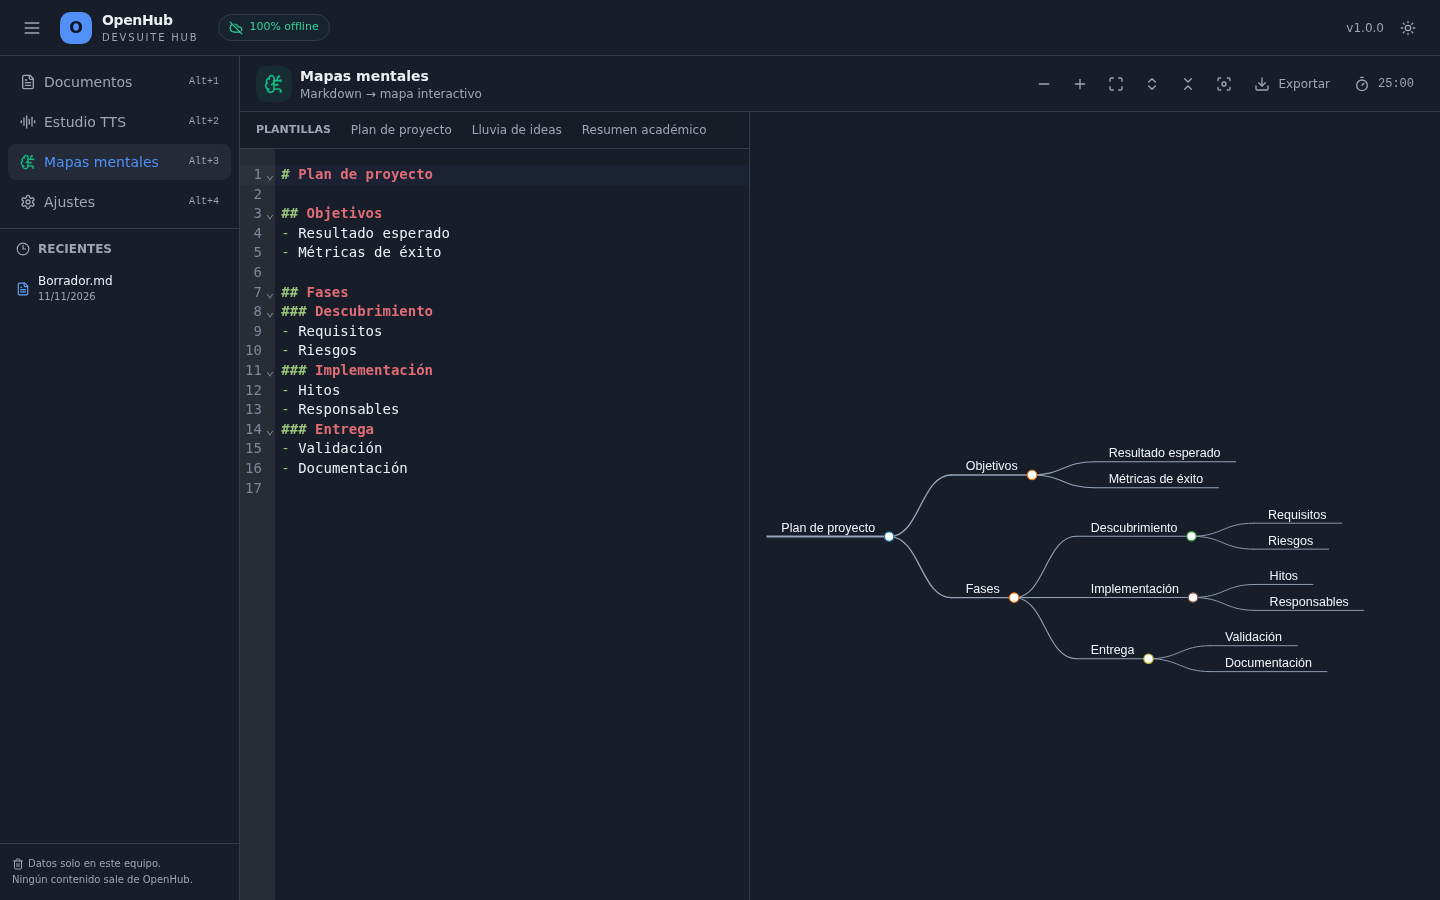
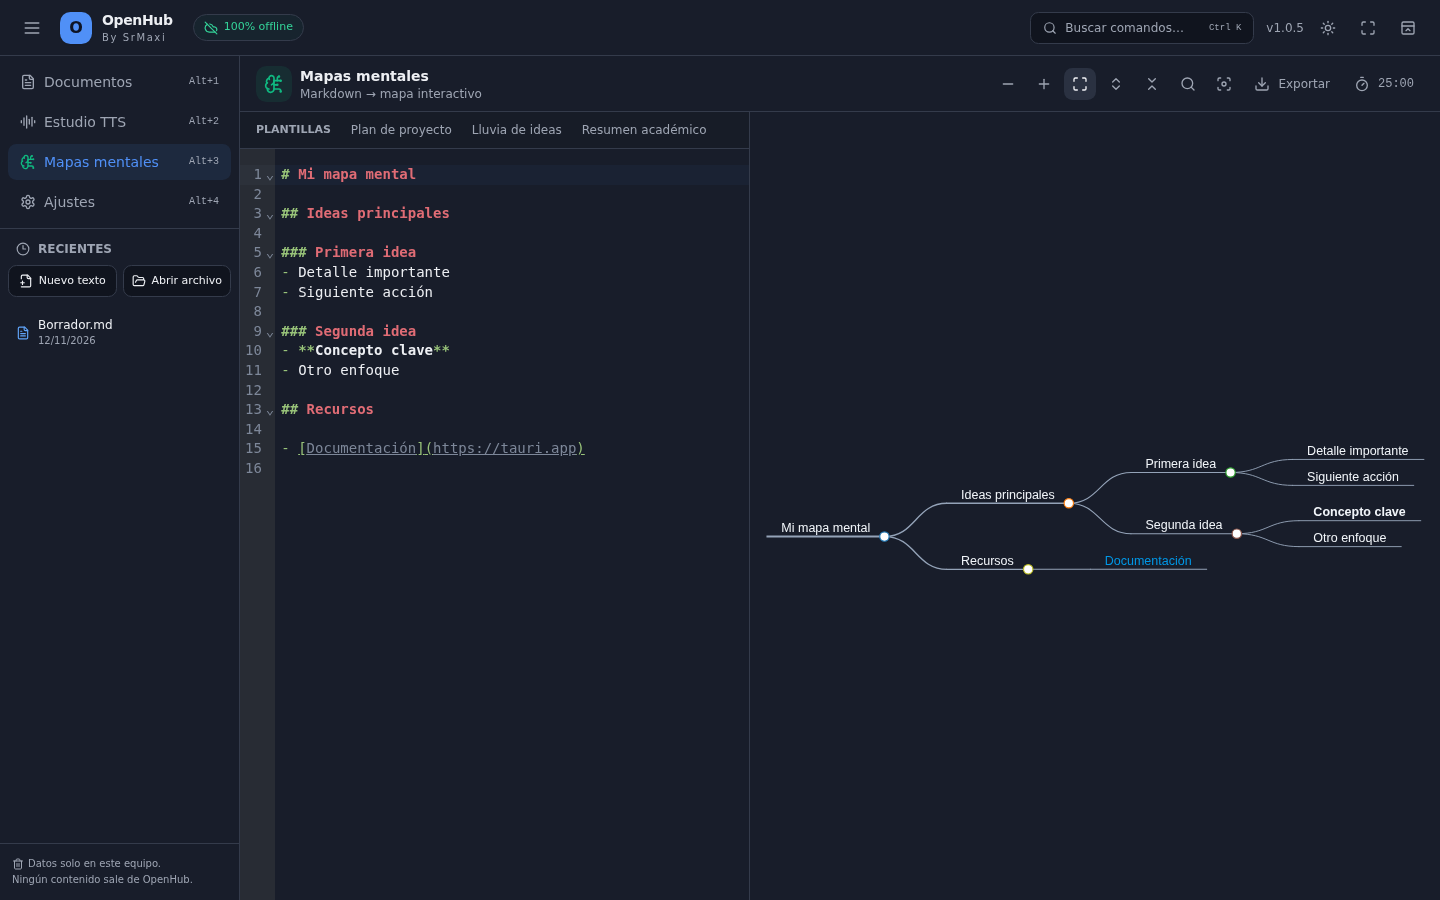
1.0.5

diff --git a/src/components/layout/Header.tsx b/src/components/layout/Header.tsx
@@ -1,13 +1,15 @@
-import { CloudOff, Menu, Moon, PanelTopClose, Search, Sun } from 'lucide-react';
+import { CloudOff, Maximize, Menu, Minimize, Moon, PanelTopClose, Search, Sun } from 'lucide-react';
 import { Button } from '@/components/ui/Button';
 import { Hint } from '@/components/ui/Tooltip';
 import { useAppStore } from '@/store/useAppStore';
 import { useAppVersion } from '@/hooks/useAppVersion';
+import { useFullscreen } from '@/hooks/useFullscreen';
 
 export function Header({ onToggleSidebar, onOpenCommands, onHide }: { onToggleSidebar: () => void; onOpenCommands: () => void; onHide: () => void }) {
   const theme = useAppStore((state) => state.theme);
   const setTheme = useAppStore((state) => state.setTheme);
   const version = useAppVersion();
+  const { fullscreen, supported, error, toggleFullscreen } = useFullscreen();
   const isDark = theme === 'dark' || (theme === 'system' && window.matchMedia('(prefers-color-scheme: dark)').matches);
 
   return (
@@ -15,7 +17,7 @@ export function Header({ onToggleSidebar, onOpenCommands, onHide }: { onToggleSi
       <Button variant="ghost" size="icon-sm" onClick={onToggleSidebar} aria-label="Alternar barra lateral"><Menu className="h-5 w-5" /></Button>
       <div className="flex items-center gap-2.5">
         <div className="grid h-8 w-8 place-items-center rounded-lg bg-primary font-black text-primary-foreground shadow-sm">O</div>
-        <div><div className="text-sm font-bold tracking-tight">OpenHub</div><div className="hidden text-[10px] font-medium uppercase tracking-[.18em] text-muted-foreground sm:block">DevSuite Hub</div></div>
+        <div><div className="text-sm font-bold tracking-tight">OpenHub</div><div className="hidden text-[10px] font-medium normal-case tracking-[.16em] text-muted-foreground sm:block">By SrMaxi</div></div>
       </div>
       <span className="ml-2 hidden items-center gap-1.5 rounded-full border bg-emerald-500/5 px-2.5 py-1 text-[11px] font-medium text-emerald-600 dark:text-emerald-400 sm:flex"><CloudOff className="h-3.5 w-3.5" />100% offline</span>
       <button onClick={onOpenCommands} className="ml-auto flex h-8 w-56 items-center gap-2 whitespace-nowrap rounded-md border bg-background px-3 text-xs text-muted-foreground transition hover:bg-accent max-md:w-9 max-md:justify-center max-md:px-0" aria-label="Abrir paleta de comandos">
@@ -26,9 +28,15 @@ export function Header({ onToggleSidebar, onOpenCommands, onHide }: { onToggleSi
         <Hint label={isDark ? 'Usar tema claro' : 'Usar tema oscuro'}>
           <Button variant="ghost" size="icon-sm" onClick={() => setTheme(isDark ? 'light' : 'dark')} aria-label="Cambiar tema">{isDark ? <Sun className="h-4 w-4" /> : <Moon className="h-4 w-4" />}</Button>
         </Hint>
+        <Hint label={!supported ? 'Pantalla completa no disponible' : fullscreen ? 'Salir de pantalla completa · F11' : 'Pantalla completa · F11'}>
+          <Button variant={fullscreen ? 'secondary' : 'ghost'} size="icon-sm" onClick={() => void toggleFullscreen()} disabled={!supported} aria-label={fullscreen ? 'Salir de pantalla completa' : 'Poner pantalla completa'} aria-pressed={fullscreen}>
+            {fullscreen ? <Minimize className="h-4 w-4" /> : <Maximize className="h-4 w-4" />}
+          </Button>
+        </Hint>
         <Hint label="Ocultar barra superior · Ctrl+Shift+H">
           <Button variant="ghost" size="icon-sm" onClick={onHide} aria-label="Ocultar barra superior"><PanelTopClose className="h-4 w-4" /></Button>
         </Hint>
+        {error && <span className="sr-only" role="alert">{error}</span>}
       </div>
     </header>
   );

diff --git a/src/components/layout/Sidebar.tsx b/src/components/layout/Sidebar.tsx
@@ -1,4 +1,4 @@
-import { AudioLines, BrainCircuit, Clock3, FileText, Settings, Trash2, X } from 'lucide-react';
+import { AudioLines, BrainCircuit, Clock3, FilePlus2, FileText, FolderOpen, Settings, Trash2, X } from 'lucide-react';
 import { Button } from '@/components/ui/Button';
 import { Hint } from '@/components/ui/Tooltip';
 import { useAppStore } from '@/store/useAppStore';
@@ -20,6 +20,13 @@ export function Sidebar({ open, headerHidden = false }: { open: boolean; headerH
 
   const select = (id: ToolId) => setActive(id);
   const openRecent = (recent: RecentDocument) => window.dispatchEvent(new CustomEvent('openhub:recent', { detail: recent }));
+  const createText = () => {
+    const names = new Set(recents.map((recent) => recent.name.toLocaleLowerCase()));
+    let index = 1;
+    while (names.has(`texto ${index}.md`)) index += 1;
+    window.dispatchEvent(new CustomEvent('openhub:new-document', { detail: { name: `Texto ${index}.md` } }));
+  };
+  const openFile = () => window.dispatchEvent(new CustomEvent('openhub:open'));
 
   return (
     <aside className={cn('z-30 flex shrink-0 flex-col border-r bg-card transition-[width] duration-200 max-lg:absolute max-lg:bottom-0 max-lg:left-0 max-lg:shadow-xl', headerHidden ? 'max-lg:top-0' : 'max-lg:top-14', open ? 'w-60' : 'w-16 max-lg:w-0 max-lg:overflow-hidden')} aria-label="Navegación principal">
@@ -43,6 +50,10 @@ export function Sidebar({ open, headerHidden = false }: { open: boolean; headerH
       {open && (
         <div className="flex min-h-0 flex-1 flex-col border-t pt-3">
           <div className="mb-2 flex items-center gap-2 px-4 text-xs font-semibold text-muted-foreground"><Clock3 className="h-3.5 w-3.5" />RECIENTES</div>
+          <div className="grid grid-cols-2 gap-1.5 px-2 pb-3">
+            <Button variant="outline" size="sm" className="min-w-0 gap-1.5 px-2 text-[11px]" onClick={createText} aria-label="Crear texto nuevo"><FilePlus2 className="h-3.5 w-3.5" />Nuevo texto</Button>
+            <Button variant="outline" size="sm" className="min-w-0 gap-1.5 px-2 text-[11px]" onClick={openFile} aria-label="Abrir archivo desde Recientes"><FolderOpen className="h-3.5 w-3.5" />Abrir archivo</Button>
+          </div>
           <div className="min-h-0 flex-1 space-y-0.5 overflow-y-auto px-2 pb-3">
             {recents.length ? recents.map((recent) => (
               <div key={recent.id} className="group flex items-center rounded-md hover:bg-accent">
@@ -52,7 +63,7 @@ export function Sidebar({ open, headerHidden = false }: { open: boolean; headerH
                 </button>
                 <button className="mr-1 flex rounded p-1 text-muted-foreground opacity-0 transition-opacity hover:bg-background hover:text-destructive focus:opacity-100 group-focus-within:opacity-100 group-hover:opacity-100" onClick={() => removeRecent(recent.id)} aria-label={`Quitar ${recent.name} de recientes`}><X className="h-3 w-3" /></button>
               </div>
-            )) : <p className="px-3 py-5 text-center text-xs leading-5 text-muted-foreground">Los documentos que abras aparecerán aquí.</p>}
+            )) : <p className="px-3 py-5 text-center text-xs leading-5 text-muted-foreground">Crea un texto o abre un archivo para verlo aquí.</p>}
           </div>
         </div>
       )}

diff --git a/src/hooks/useFullscreen.ts b/src/hooks/useFullscreen.ts
@@ -1,0 +1,65 @@
+import { useCallback, useEffect, useState } from 'react';
+import { getCurrentWindow } from '@tauri-apps/api/window';
+import { isTauri } from '@/services/fileSystemService';
+
+export function useFullscreen() {
+  const [fullscreen, setFullscreen] = useState(false);
+  const [error, setError] = useState<string | null>(null);
+  const supported = isTauri() || (typeof document !== 'undefined' && document.fullscreenEnabled);
+
+  const refresh = useCallback(async () => {
+    try {
+      if (isTauri()) setFullscreen(await getCurrentWindow().isFullscreen());
+      else setFullscreen(Boolean(document.fullscreenElement));
+    } catch {
+      // La consulta puede fallar durante el cierre de la ventana nativa.
+    }
+  }, []);
+
+  const toggleFullscreen = useCallback(async () => {
+    setError(null);
+    try {
+      if (isTauri()) {
+        const appWindow = getCurrentWindow();
+        const next = !(await appWindow.isFullscreen());
+        await appWindow.setFullscreen(next);
+        setFullscreen(next);
+      } else if (document.fullscreenElement) {
+        await document.exitFullscreen();
+      } else if (document.documentElement.requestFullscreen) {
+        await document.documentElement.requestFullscreen();
+      } else {
+        throw new Error('Pantalla completa no disponible en este contexto.');
+      }
+    } catch (cause) {
+      setError(`No se pudo cambiar la pantalla completa: ${cause instanceof Error ? cause.message : String(cause)}`);
+    }
+  }, []);
+
+  useEffect(() => {
+    let mounted = true;
+    const sync = () => { if (mounted) void refresh(); };
+    sync();
+    document.addEventListener('fullscreenchange', sync);
+    window.addEventListener('resize', sync);
+    window.addEventListener('focus', sync);
+    return () => {
+      mounted = false;
+      document.removeEventListener('fullscreenchange', sync);
+      window.removeEventListener('resize', sync);
+      window.removeEventListener('focus', sync);
+    };
+  }, [refresh]);
+
+  useEffect(() => {
+    const onKeyDown = (event: KeyboardEvent) => {
+      if (event.key !== 'F11') return;
+      event.preventDefault();
+      void toggleFullscreen();
+    };
+    window.addEventListener('keydown', onKeyDown);
+    return () => window.removeEventListener('keydown', onKeyDown);
+  }, [toggleFullscreen]);
+
+  return { fullscreen, supported, error, toggleFullscreen };
+}

diff --git a/src/components/tools/viewer/DocumentViewer.tsx b/src/components/tools/viewer/DocumentViewer.tsx
@@ -103,13 +103,22 @@ export default function DocumentViewer() {
   useEffect(() => {
     const onOpen = () => { setActiveTool('viewer'); void openDialog(); };
     const onRecent = (event: Event) => void openRecent((event as CustomEvent<RecentDocument>).detail);
+    const onNewDocument = (event: Event) => {
+      const requestedName = (event as CustomEvent<{ name?: string }>).detail?.name?.trim();
+      setActiveTool('viewer');
+      loadDocument({ name: requestedName || 'Texto sin título.md', kind: 'markdown', text: '' });
+      setMode('split');
+      window.requestAnimationFrame(() => sectionRef.current?.querySelector<HTMLTextAreaElement>('textarea[aria-label="Editor Markdown"]')?.focus());
+    };
     window.addEventListener('openhub:open', onOpen);
     window.addEventListener('openhub:recent', onRecent);
+    window.addEventListener('openhub:new-document', onNewDocument);
     return () => {
       window.removeEventListener('openhub:open', onOpen);
       window.removeEventListener('openhub:recent', onRecent);
+      window.removeEventListener('openhub:new-document', onNewDocument);
     };
-  }, [openDialog, openRecent, setActiveTool]);
+  }, [loadDocument, openDialog, openRecent, setActiveTool, setMode]);
 
   useEffect(() => {
     if (!isTauri()) return;

diff --git a/src/hooks/useAppVersion.test.ts b/src/hooks/useAppVersion.test.ts
@@ -7,11 +7,11 @@ describe('versión de OpenHub', () => {
   });
 
   it('tolera que tauri-action presente package.json sin version', () => {
-    expect(resolvePackageVersion({})).toBe('1.0.0');
+    expect(resolvePackageVersion({})).toBe('1.0.5');
   });
 
   it('descarta valores vacíos o de otro tipo', () => {
-    expect(resolvePackageVersion({ version: '  ' })).toBe('1.0.0');
-    expect(resolvePackageVersion({ version: null })).toBe('1.0.0');
+    expect(resolvePackageVersion({ version: '  ' })).toBe('1.0.5');
+    expect(resolvePackageVersion({ version: null })).toBe('1.0.5');
   });
 });

diff --git a/src/hooks/useAppVersion.ts b/src/hooks/useAppVersion.ts
@@ -2,7 +2,7 @@ import { useEffect, useState } from 'react';
 import packageMetadata from '../../package.json';
 
 export function resolvePackageVersion(metadata: Record<string, unknown>): string {
-  return typeof metadata.version === 'string' && metadata.version.trim() ? metadata.version : '1.0.0';
+  return typeof metadata.version === 'string' && metadata.version.trim() ? metadata.version : '1.0.5';
 }
 
 const packageVersion = resolvePackageVersion(packageMetadata);

diff --git a/README.md b/README.md
@@ -1,4 +1,4 @@
-# OpenHub (DevSuite Hub)
+# OpenHub — By SrMaxi
 
 Aplicación de escritorio **Windows 10/11**, que integra un visor Markdown/PDF, un estudio de texto a voz y mapas mentales interactivos. Todo el trabajo y los recursos funcionan offline; solo buscar o descargar actualizaciones requiere internet. Construida con **Tauri v2, Rust, React 18, TypeScript, Tailwind CSS, Radix UI y Zustand**.
 
@@ -9,7 +9,7 @@ Aplicación de escritorio **Windows 10/11**, que integra un visor Markdown/PDF, 
 - **Voz:** Web Speech API / voces SAPI disponibles en WebView2; velocidad, tono, volumen, lectura de selección, párrafos, progreso, resaltado y auto-scroll.
 - **Mapas:** CodeMirror 6 + Markmap, zoom, pan, colapso, modo foco, plantillas y exportación MD/SVG/HTML/PNG/PDF mediante impresión.
 - **Pomodoro compartido:** trabajo/descanso configurables, pausa, salto, reinicio, estadísticas y alarma local diferente al terminar enfoque o descanso. Panel flotante accesible sobre Visor, TTS y Mapas.
-- **Productividad:** paleta `Ctrl+K`, barra superior ocultable con `Ctrl+Shift+H`, índice Markdown navegable, búsqueda PDF con atajos y búsqueda/centrado de temas Markmap.
+- **Productividad:** pantalla completa nativa/web con botón y `F11`, creación de textos y apertura de archivos desde Recientes, paleta `Ctrl+K`, barra superior ocultable con `Ctrl+Shift+H`, índice Markdown, búsqueda PDF y búsqueda/centrado de temas Markmap.
 - **Lectura accesible:** tamaño, interlineado y ancho configurables; pronunciación TTS personalizada sin alterar el texto ni perder su resaltado.
 - **Respaldo local:** exportación/restauración JSON versionada y validada de preferencias, pronunciaciones y recientes.
 - **Actualizaciones firmadas:** aviso al iniciar, descarga con progreso, instalación con aceptación y reinicio mediante GitHub Releases. [Configuración](docs/ACTUALIZACIONES.md).
@@ -25,7 +25,7 @@ Las siguientes imágenes son capturas directas del **build de producción ejecut
 
 Capturas individuales a 1440 × 900 px: [Inicio](docs/screenshots/01-inicio.png) · [Visor Markdown](docs/screenshots/02-visor-markdown.png) · [Estudio TTS](docs/screenshots/03-estudio-tts.png) · [Mapas mentales](docs/screenshots/04-mapas-mentales.png) · [Ajustes](docs/screenshots/05-ajustes.png) · [Modo oscuro](docs/screenshots/06-mapa-modo-oscuro.png).
 
-**Nuevas mejoras verificadas:** [Paleta de comandos](docs/screenshots/mejoras/07-paleta-comandos.png) · [Índice de lectura](docs/screenshots/mejoras/08-indice-lectura.png) · [Búsqueda PDF en página 2](docs/screenshots/mejoras/09-busqueda-pdf.png) · [Búsqueda Markmap](docs/screenshots/mejoras/10-busqueda-markmap.png) · [Pronunciación y accesibilidad](docs/screenshots/mejoras/11-pronunciacion-ajustes.png) · [Barra superior oculta](docs/screenshots/mejoras/12-barra-superior-oculta.png) · [Leer selección](docs/screenshots/mejoras/13-leer-seleccion.png) · [Actualización disponible](docs/screenshots/mejoras/14-actualizacion-disponible.png) · [Pomodoro superpuesto](docs/screenshots/mejoras/15-pomodoro-superpuesto.png).
+**Nuevas mejoras verificadas:** [Paleta de comandos](docs/screenshots/mejoras/07-paleta-comandos.png) · [Índice de lectura](docs/screenshots/mejoras/08-indice-lectura.png) · [Búsqueda PDF en página 2](docs/screenshots/mejoras/09-busqueda-pdf.png) · [Búsqueda Markmap](docs/screenshots/mejoras/10-busqueda-markmap.png) · [Pronunciación y accesibilidad](docs/screenshots/mejoras/11-pronunciacion-ajustes.png) · [Barra superior oculta](docs/screenshots/mejoras/12-barra-superior-oculta.png) · [Leer selección](docs/screenshots/mejoras/13-leer-seleccion.png) · [Actualización disponible](docs/screenshots/mejoras/14-actualizacion-disponible.png) · [Pomodoro superpuesto](docs/screenshots/mejoras/15-pomodoro-superpuesto.png) · [Acciones en Recientes](docs/screenshots/mejoras/16-recientes-acciones.png) · [Pantalla completa](docs/screenshots/mejoras/17-pantalla-completa.png).
 
 ### Cómo escuchar solo una selección
 
@@ -66,8 +66,8 @@ La verificación E2E opcional y reproducible de las nuevas funciones está docum
 Instaladores generados:
 
 ```text
-src-tauri/target/release/bundle/nsis/OpenHub_1.0.0_x64-setup.exe
-src-tauri/target/release/bundle/msi/OpenHub_1.0.0_x64_en-US.msi
+src-tauri/target/release/bundle/nsis/OpenHub_1.0.5_x64-setup.exe
+src-tauri/target/release/bundle/msi/OpenHub_1.0.5_x64_en-US.msi
 ```
 
 > Los nombres pueden variar según la arquitectura y el idioma del bundle.
@@ -79,7 +79,7 @@ src-tauri/target/release/bundle/msi/OpenHub_1.0.0_x64_en-US.msi
    ```powershell
    git init
    git add .
-   git commit -m "OpenHub 1.0.0"
+   git commit -m "OpenHub 1.0.5"
    git branch -M main
    git remote add origin https://github.com/USUARIO/REPOSITORIO.git
    git push -u origin main

diff --git a/docs/VERIFICACION.md b/docs/VERIFICACION.md
@@ -1,4 +1,4 @@
-# Informe de verificación — OpenHub 1.0.0
+# Informe de verificación — OpenHub 1.0.5
 
 **Fecha:** 11 de noviembre de 2026.
 
@@ -8,14 +8,15 @@
 |---|---|
 | `npm run typecheck` | Correcto, sin errores TypeScript. |
 | `npm test` | 6 archivos; **22/22 pruebas unitarias** superadas. |
-| `npm run build` | Build Vite de producción correcto; **2413 módulos** transformados. |
+| `npm run build` | Build Vite de producción correcto; **2414 módulos** transformados. |
 | `npm audit --omit=dev --audit-level=low` | **0 vulnerabilidades** en dependencias de producción. |
 | `node verify-improvements.mjs` | **7 comprobaciones** funcionales superadas; **`errors: []`**. |
 | `node verify-usability.mjs` | **14 comprobaciones** de usabilidad superadas; **`errors: []`**. |
 | `node verify-updater.mjs` | **8 comprobaciones** del actualizador superadas; **`errors: []`**. |
 | `node verify-pomodoro.mjs` | **6 comprobaciones** de apilamiento, clics y alarmas superadas; **`errors: []`**. |
+| `node verify-navigation.mjs` | **9 comprobaciones** de identidad, Recientes y pantalla completa superadas; **`errors: []`**. |
 
-Total de navegador: **35/35 comprobaciones** sobre el frontend de producción servido en el puerto 1420 mediante Chromium/Playwright. No se modifica la interfaz distribuida para aparentar resultados.
+Total de navegador: **44/44 comprobaciones** sobre el frontend de producción servido en el puerto 1420 mediante Chromium/Playwright. No se modifica la interfaz distribuida para aparentar resultados.
 
 ## E2E general
 
@@ -48,7 +49,13 @@ Total de navegador: **35/35 comprobaciones** sobre el frontend de producción se
 
 Para recorrer los vencimientos sin esperar 30 minutos, la prueba configura sesiones de 1,2 segundos en el almacenamiento del navegador aislado. El temporizador real termina enfoque y descanso, cambia de modo y actualiza las estadísticas. Se sustituye `AudioContext` **solo en QA** para registrar las frecuencias programadas: `[880, 660, 880]` al terminar enfoque y `[523.25, 659.25, 523.25]` al terminar descanso. Esto valida la lógica y la programación de audio; la salida audible física y las políticas concretas de WebView2 deben comprobarse en Windows.
 
-Capturas finales: `docs/screenshots/mejoras/07-…` hasta `15-…`.
+## E2E de Recientes y pantalla completa
+
+`verify-navigation.mjs` crea dos borradores con nombres únicos, comprueba que el segundo no sobrescribe el primero, recupera su contenido desde Recientes y abre un Markdown real mediante el selector de archivos. Después entra y sale de pantalla completa con el botón y con `F11`.
+
+En una segunda página aislada simula únicamente el IPC de Tauri para comprobar `isFullscreen`, `setFullscreen(true/false)` y la sincronización cuando la ventana cambia externamente. La versión web utiliza la Fullscreen API real de Chromium, no un doble.
+
+Capturas finales: `docs/screenshots/mejoras/07-…` hasta `17-…`.
 
 ## Errores corregidos en esta ronda
 
@@ -62,6 +69,8 @@ Capturas finales: `docs/screenshots/mejoras/07-…` hasta `15-…`.
 - Se endurecieron nombres reservados de Windows, progreso no finito, índice activo, Pomodoro, paleta y foco del actualizador.
 - Restaurar una copia cancela cualquier voz activa antes de reemplazar el estado.
 - La compilación dentro de `tauri-action` podía recibir un `package.json` sin `version`; `useAppVersion` ahora tolera metadatos incompletos y conserva `getVersion()` como fuente real en Windows. Se verificó `npm run build` con la propiedad eliminada temporalmente y se restauró el archivo después.
+- Recientes permite crear borradores únicos y abrir archivos sin salir de la barra lateral; el editor recupera correctamente el contenido seleccionado.
+- Pantalla completa funciona con botón y `F11`, con permisos nativos explícitos, fallback web y sincronización de estado.
 
 ## Alcance y límites
 

diff --git a/docs/INVESTIGACION-Y-MEJORAS.md b/docs/INVESTIGACION-Y-MEJORAS.md
@@ -30,6 +30,7 @@
 | Backup/restauración | JSON versionado, exportación nativa/descarga y límite de importación de 5 MB. | E2E descarga y valida JSON; pruebas de esquema, límites, recientes y reglas. |
 | Pomodoro superpuesto y alarmas | Portal a `document.body`, posición adaptada al viewport, cierre al ocultarse su herramienta y Web Audio local con melodías distintas para enfoque/descanso. | E2E pulsa los controles en Visor/TTS/Mapas, comprueba el elemento superior y recorre ambos vencimientos; AudioContext se simula solo en QA para inspeccionar las notas. |
 | Robustez de texto y datos | Rangos Unicode exactos, borradores vacíos, backups parciales no destructivos, nombres seguros para Windows y versión tolerante a metadatos incompletos en CI. | 22 pruebas unitarias, incluidos coreano, acentos descompuestos, emojis, dispositivos reservados y `package.json` sin `version`. |
+| Recientes y pantalla completa | Acciones laterales para texto/archivo, nombres únicos y `useFullscreen` con Tauri/Fullscreen API, `F11` y permisos nativos mínimos. Identidad `By SrMaxi` y versión base 1.0.5 sincronizadas. | 9 comprobaciones E2E de identidad, creación, recuperación, apertura, botón, atajo e IPC nativo. |
 
 ## Decisiones deliberadas
 
@@ -67,8 +68,9 @@ node verify-improvements.mjs
 node verify-usability.mjs
 node verify-updater.mjs
 node verify-pomodoro.mjs
+node verify-navigation.mjs
 ```
 
-El primer script crea un PDF real de dos páginas, lo carga mediante el input de archivos y verifica las funciones generales. El segundo comprueba selección TTS, edición durante reproducción, Pomodoro y barra superior; solo dentro de ese navegador de QA sustituye Web Speech por un doble que permite inspeccionar el texto enviado. El tercero valida el diálogo y el IPC del actualizador mediante otro doble aislado, sin instalar software. El cuarto comprueba que los controles Pomodoro reciben clics en las tres herramientas y recorre vencimientos breves reales; sustituye `AudioContext` únicamente en QA para registrar las notas programadas, no para simular los cambios de sesión. Los cuatro imprimen `errors: []`; las capturas auténticas se guardan en `docs/screenshots/mejoras/`. En Linux se pueden instalar las bibliotecas de Chromium con `npx playwright install-deps chromium`.
+El primer script crea un PDF real de dos páginas, lo carga mediante el input de archivos y verifica las funciones generales. El segundo comprueba selección TTS, edición durante reproducción, Pomodoro y barra superior; solo dentro de ese navegador de QA sustituye Web Speech por un doble que permite inspeccionar el texto enviado. El tercero valida el diálogo y el IPC del actualizador mediante otro doble aislado, sin instalar software. El cuarto comprueba que los controles Pomodoro reciben clics en las tres herramientas y recorre vencimientos breves reales; sustituye `AudioContext` únicamente en QA para registrar las notas programadas, no para simular los cambios de sesión. El quinto crea/recupera borradores, abre archivos desde Recientes y comprueba pantalla completa web y los comandos IPC nativos. Los cinco imprimen `errors: []`; las capturas auténticas se guardan en `docs/screenshots/mejoras/`. En Linux se pueden instalar las bibliotecas de Chromium con `npx playwright install-deps chromium`.
 
 No se utilizan mockups, imágenes generadas por IA ni datos pintados para simular resultados.
